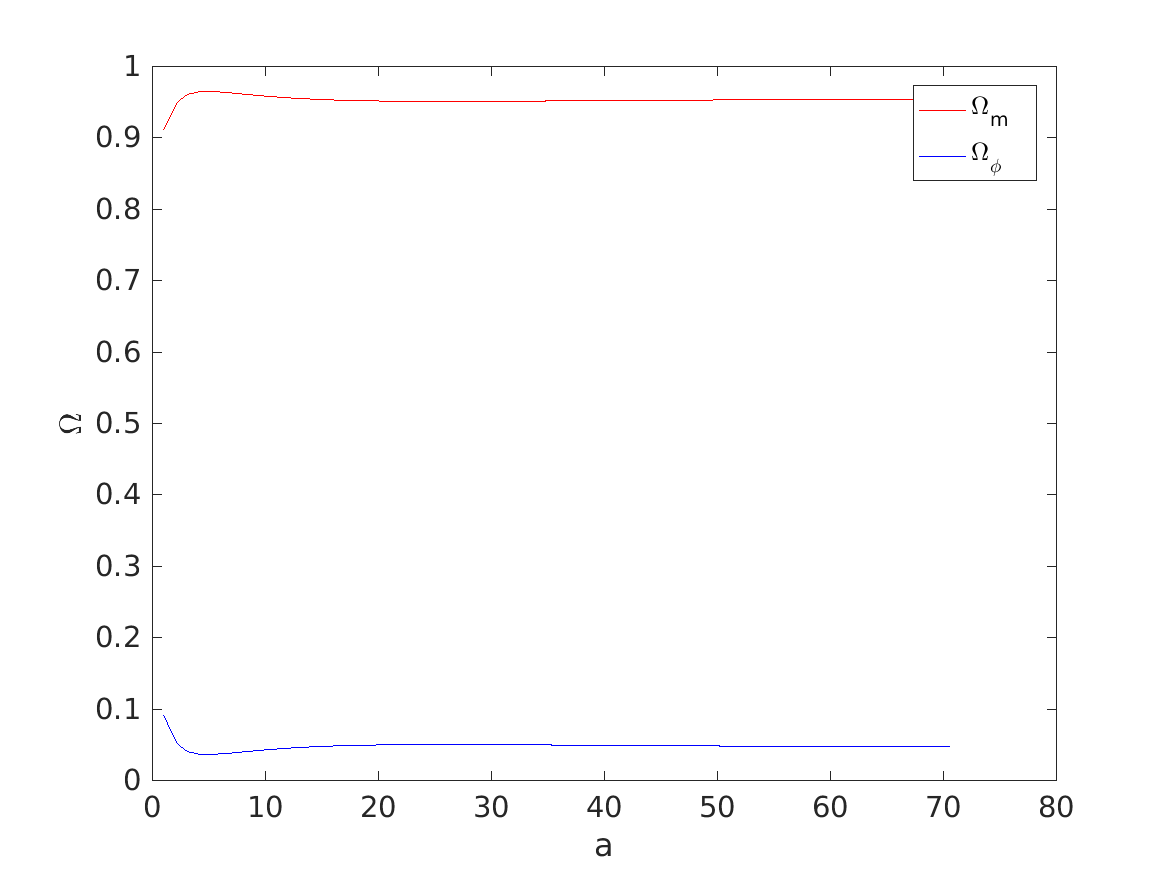
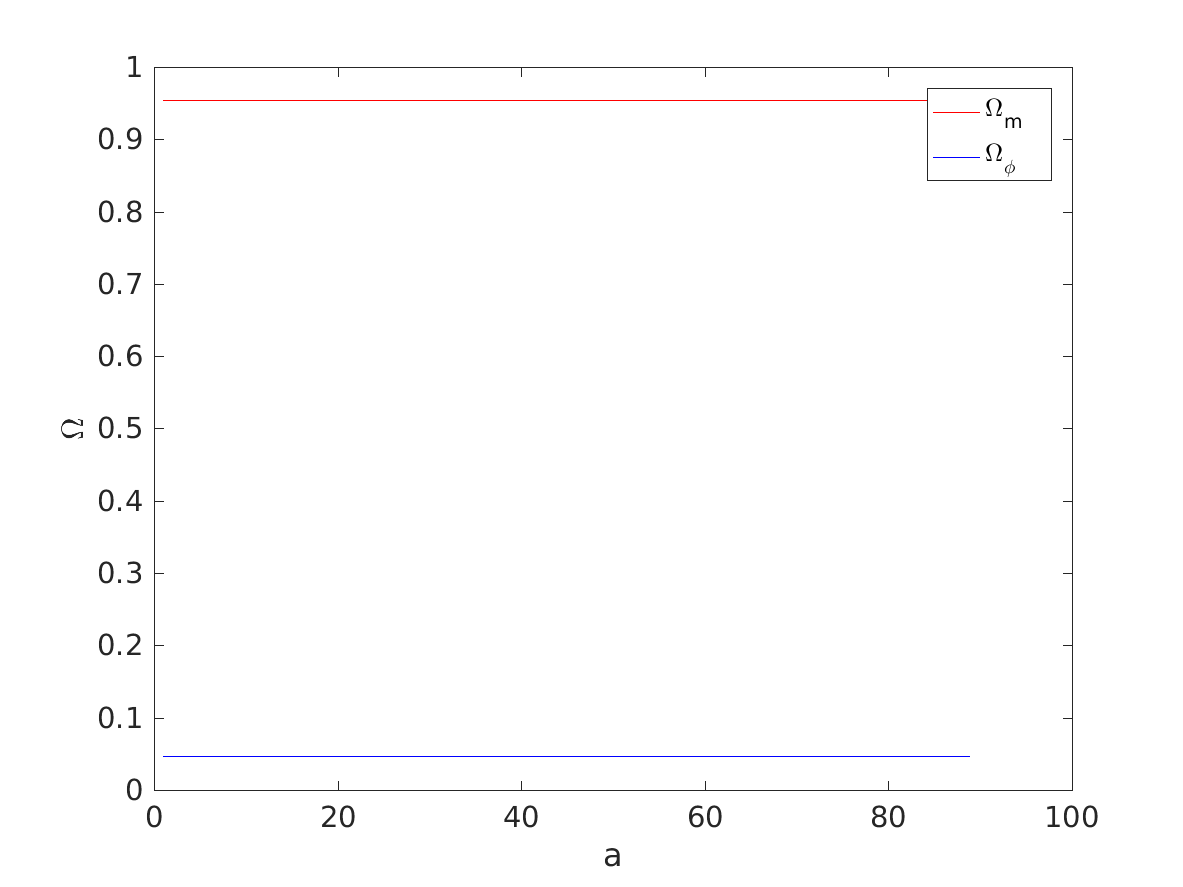
log spacing in time added phi v t and V v t plots

diff --git a/HW5/hw5.m b/HW5/hw5.m
@@ -27,7 +27,7 @@ a0=1;
 phi0=par.beta*10^-3;
 V0_0 = Vexppre(phi0,par);
 phidot_0 = sqrt(2*V0_0);
-rhophi_0 = .5*phi0^2 + Vexppre(phi0,par);
+rhophi_0 = .5*phidot_0^2 + Vexppre(phi0,par);
 par.rhom=( (1/3)*par.lambda^2 -1 )*rhophi_0;
 
 tspan = linspace(0,5,1000);
@@ -38,10 +38,10 @@ init = [phi0 phidot_0 a0];
 
 %calculate the first matter and phi density
 rho_matter = par.rhom*f(:,3).^-3;
-rho_phi = 0.5*f(:,2).^2 +  Vexppre(f(:,1), par)
+rho_phi = 0.5*f(:,2).^2 +  Vexppre(f(:,1), par);
 
 %calculate the first critical density
-rho_crit = rho_matter + rho_phi
+rho_crit = rho_matter + rho_phi;
 
 omega_m=rho_matter./rho_crit;
 omega_phi=rho_phi./rho_crit;
@@ -79,26 +79,26 @@ saveas(h,'phi_t.png');
 par.V0 = 1;
 
 %try new initial condition for phi0
-phi0 = 33;
+phi0 = 33.95;
 
 %initial conditions
 a0=1;
 V0_0 = Vexppre(phi0,par);
-phidot_0 = sqrt(2*V0_0);
-rhophi_0 = .5*phi0^2 + Vexppre(phi0,par);
+phidot_0 = 2e-61;
+rhophi_0 = .5*phidot_0^2 + Vexppre(phi0,par);
 par.rhom=( (1/3)*par.lambda^2 -1 )*rhophi_0;
 
 
 %numerically solve for phi, phidot, a
-tspan = linspace(0,.1,10000);
+tspan = logspace(57,60.3,1000000);
 init = [phi0 phidot_0 a0];
 
 [t2 f2] = ode45(@(t, f) odefun(t, f, par), tspan, init);
 
 %start calculating the equation of state
 
-rho_phi2 = f2(:,2).^2 /2 + Vexppre(f2(:,1), par);
-pres_phi2 = f2(:,2).^2 /2 - Vexppre(f2(:,1), par);
+rho_phi2 = .5 * f2(:,2).^2 + Vexppre(f2(:,1), par);
+pres_phi2 = .5 * f2(:,2).^2 - Vexppre(f2(:,1), par);
 
 w= pres_phi2 ./ rho_phi2;
 
@@ -111,10 +111,10 @@ saveas(k,'eqofstate.png');
 %problem 5.4e
 %calculate the second matter and phi density
 rho_matter2 = par.rhom*f2(:,3).^-3;
-rho_phi2 = 0.5*f2(:,2).^2 +  Vexppre(f2(:,1), par)
+rho_phi2 = 0.5*f2(:,2).^2 +  Vexppre(f2(:,1), par);
 
 %calculate the first critical density
-rho_crit2 = rho_matter2 + rho_phi2
+rho_crit2 = rho_matter2 + rho_phi2;
 omega_m2 = rho_matter2 ./ rho_crit2;
 omega_phi2 = rho_phi2 ./ rho_crit2;
 
@@ -129,5 +129,20 @@ hold off;
 set(gca, 'fontsize',14);
 saveas(i, 'omega_54c.png');
 
+%5.4j multi pannel figure showig time evolution of field and potential
+phi_pan = f2(:,1);
+potent = Vexppre(phi_pan, par);
+
+k=figure();
+subplot(2,1,1);
+semilogx(t2, phi_pan);
+ylabel('\phi');
+
+subplot(2,1,2);
+semilogx(t2, potent);
+ylabel('V(\phi)');
+xlabel('time');
+%set(gca,'fontsize',14)
+saveas(k,'phiVt.png');
 
 
